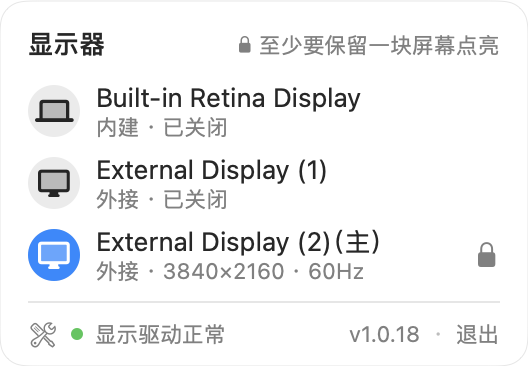
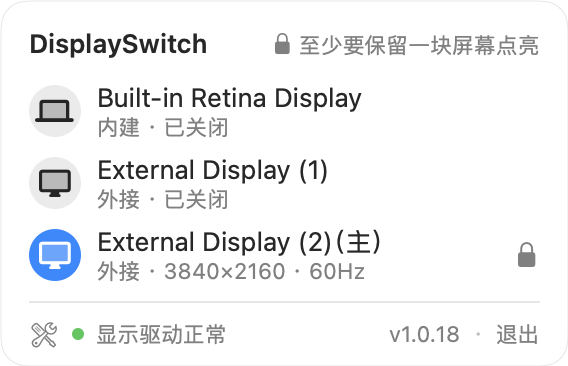
💄 候选版 1.0.18:标题改为软件名 DisplaySwitch;提示区的锁与文字照系统副标题样式
- 标题写软件名,不再写中文「显示器」(他的要求)
- 提示文字用系统菜单副标题的样式(11pt、secondaryLabelColor),与说明行一致,不再发虚
- 锁用 SF Symbols 跟随文字的默认大小,与汉字同高(曾缩小一号,比汉字小一圈)
- 文档与注释:真键盘按 Esc 能收起(他实测),脚本合成的 Esc 测不出来

diff --git a/Sources/DisplaySwitchUI/PanelView.swift b/Sources/DisplaySwitchUI/PanelView.swift
@@ -44,17 +44,21 @@ public struct PanelView: View {
         .fixedSize(horizontal: true, vertical: false)
     }
 
-    /// 标题取系统自己的叫法:控制中心与系统设置里都叫「显示器」(曾叫「显示器开关」,他嫌土)。
+    /// 标题写软件名(他的要求,2026-10-23)。曾叫「显示器开关」(他嫌土),后取系统的叫法「显示器」,
+    /// 他要换成软件名、不写中文。
     /// 字号、字重、颜色同 Wi-Fi 菜单的标题:13pt 半粗,控件文字色(实测最深处 (38, 38, 38),不是纯黑)。
     private var header: some View {
         HStack(alignment: .firstTextBaseline, spacing: 8) {
-            Text("显示器")
+            Text("DisplaySwitch")
                 .font(.system(size: 13, weight: .semibold))
                 .foregroundStyle(Color(nsColor: .controlTextColor))
             Spacer(minLength: 16)
             // 提示区(他的设计):平时空着,只剩最后一块亮着被锁住时写原因。与行里的锁同时、直接出现和消失,
             // 不淡入淡出——系统菜单里的内容变化都是直接到位的(见 `StatusIcon`)。
             // 锁形图标嵌在文字里、随文字排版:单独摆一个图标会把这一行撑高 1pt,面板跟着跳(截图实测)。
+            // 文字用系统菜单副标题的样式(11pt、`secondaryLabelColor`),与每行的说明行一致;
+            // 锁用 SF Symbols 跟随文字的默认大小,与汉字同高(7.5×10.5pt 对 10pt)。曾用更浅的次要色、锁缩小一号,
+            // 锁比汉字小一圈,整句发虚(他指出要优化)。没有另加上下偏移:量下来锁中心只比汉字高 0.75pt。
             ZStack(alignment: .trailing) {
                 Self.hintText(lockReasonText).hidden()          // 按会出现的那句预留宽度,提示出现时面板不变宽
                 if let hint = model.hint {
@@ -63,7 +67,7 @@ public struct PanelView: View {
                 }
             }
             .font(.system(size: 11))
-            .foregroundStyle(.secondary)
+            .foregroundStyle(Color(nsColor: .secondaryLabelColor))
             .lineLimit(1)
         }
         .padding(.horizontal, 14)
@@ -72,7 +76,7 @@ public struct PanelView: View {
     }
 
     private static func hintText(_ hint: String) -> some View {
-        Text("\(Image(systemName: "lock.fill")) \(hint)").imageScale(.small)
+        Text("\(Image(systemName: "lock.fill")) \(hint)")
     }
 
     private var unsupportedNotice: some View {

diff --git a/Sources/DisplaySwitchApp/StatusPanelController.swift b/Sources/DisplaySwitchApp/StatusPanelController.swift
@@ -4,7 +4,7 @@ import SwiftUI
 import DisplaySwitchCore
 import DisplaySwitchUI
 
-/// 菜单栏图标 + 自管的面板窗口。点图标开 / 关;点面板外、切到别的 app 时收起,本 app 收得到按键时按 Esc 也收起。
+/// 菜单栏图标 + 自管的面板窗口。点图标开 / 关;点面板外、按 Esc、切到别的 app 时收起。
 ///
 /// 为什么不用系统的 NSPopover(v1.0.17 用的就是它):它挂在菜单栏图标上,而开关**主屏**时
 /// macOS 会把菜单栏连同图标搬到新的主屏,NSPopover 随之被系统收起,收起动画还按旧坐标播放——
@@ -197,8 +197,8 @@ final class StatusPanelController: NSObject {
         }) {
             eventMonitors.append(m)
         }
-        // Esc 收起。只在本 app 收得到按键时有效:面板不激活本 app,别的 app 在前台时,
-        // 系统把 Esc 交给那个 app,这里收不到(实测,有没有会话、主动请求激活都一样,见设计文档)。
+        // Esc 收起。真键盘按下能收到(他实测);脚本从别的进程合成的 Esc 收不到、会落到前台 app,
+        // 所以只能手按验收(见设计文档)。
         if let m = NSEvent.addLocalMonitorForEvents(matching: [.keyDown], handler: { [weak self] event in
             guard event.keyCode == 53 else { return event }
             self?.dismiss()

diff --git a/.claude/memory/compare-ui-against-native-by-pixels.md b/.claude/memory/compare-ui-against-native-by-pixels.md
@@ -22,6 +22,7 @@ metadata:
 - **发 Esc 前先把焦点挪到桌面**(`osascript -e 'tell application "Finder" to activate'`,确认前台是访达再发,
   测完把焦点还给原来的 app;他 2026-10-23 明确同意这样做)。本 app 的面板不激活本 app,Esc 会落到当时的前台 app——
   他前台常是跑着 Claude Code 的 Ghostty 窗口,Esc 会打断它。收面板优先用「再点图标」或点菜单栏空白处。
+  脚本从别的进程合成的 Esc 本来就到不了本 app 的面板(真键盘按能收起,他实测),Esc 只能请他手按验收。
 - 进程**自己**发的合成按键会回到它自己手里:拿原型自己发 Esc 会误判「收得到」,要从另一个进程发。
 - 动他的蓝牙等真实设备前,点之前先核对那一行是谁(按名字长度 / 图标):蓝牙菜单开关后会重新排序,
   按旧坐标会点到别的设备;按住太久的合成点击可能不被认,结束前必须核对设备状态恢复(`system_profiler SPBluetoothDataType`)。
